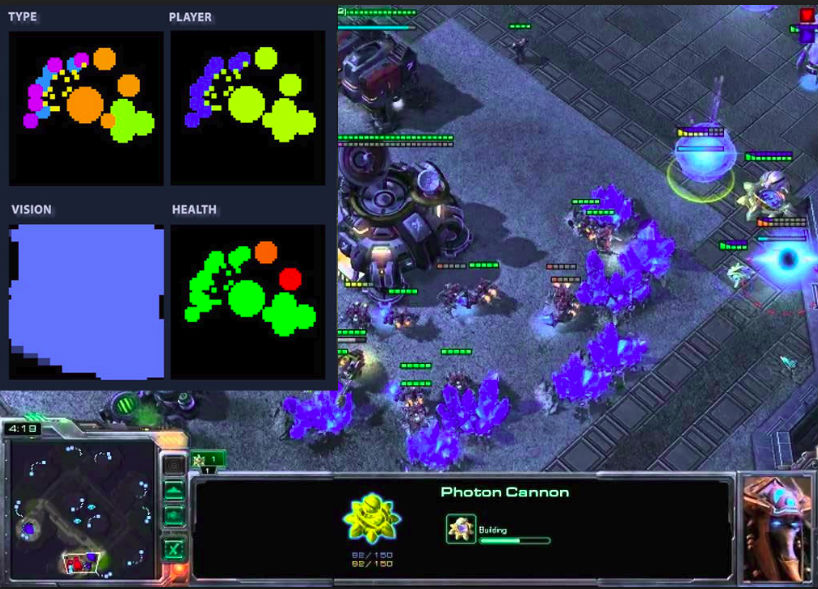
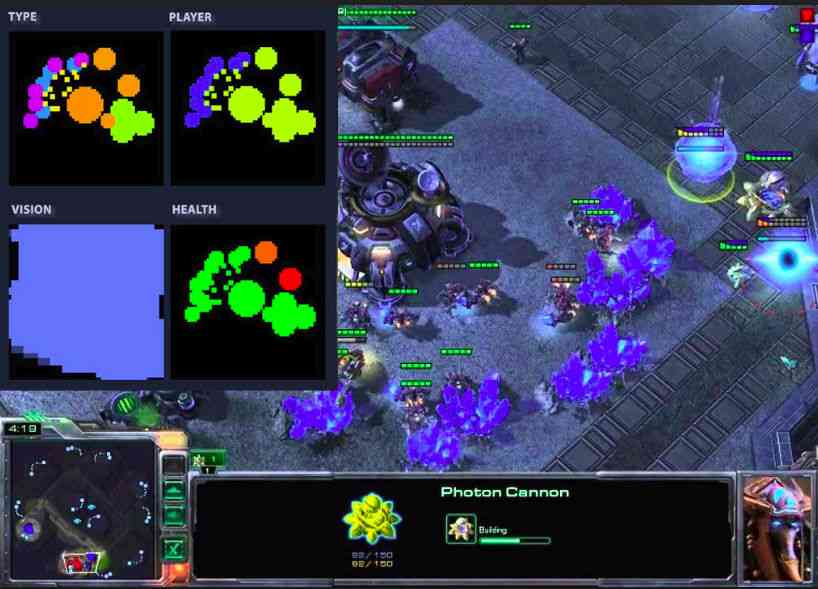
img sizedown

diff --git a/index.html b/index.html
@@ -191,7 +191,7 @@
 
                 <div class="project shadow-large">
                     <div class="project-image">
-                        <img src="images/cifar10.png" width="260" height="200" />
+                        <img src="images/cifar10.jpg" width="260" height="200" />
                     </div>
                     <!-- End .project-image -->
                     <div class="project-info">
